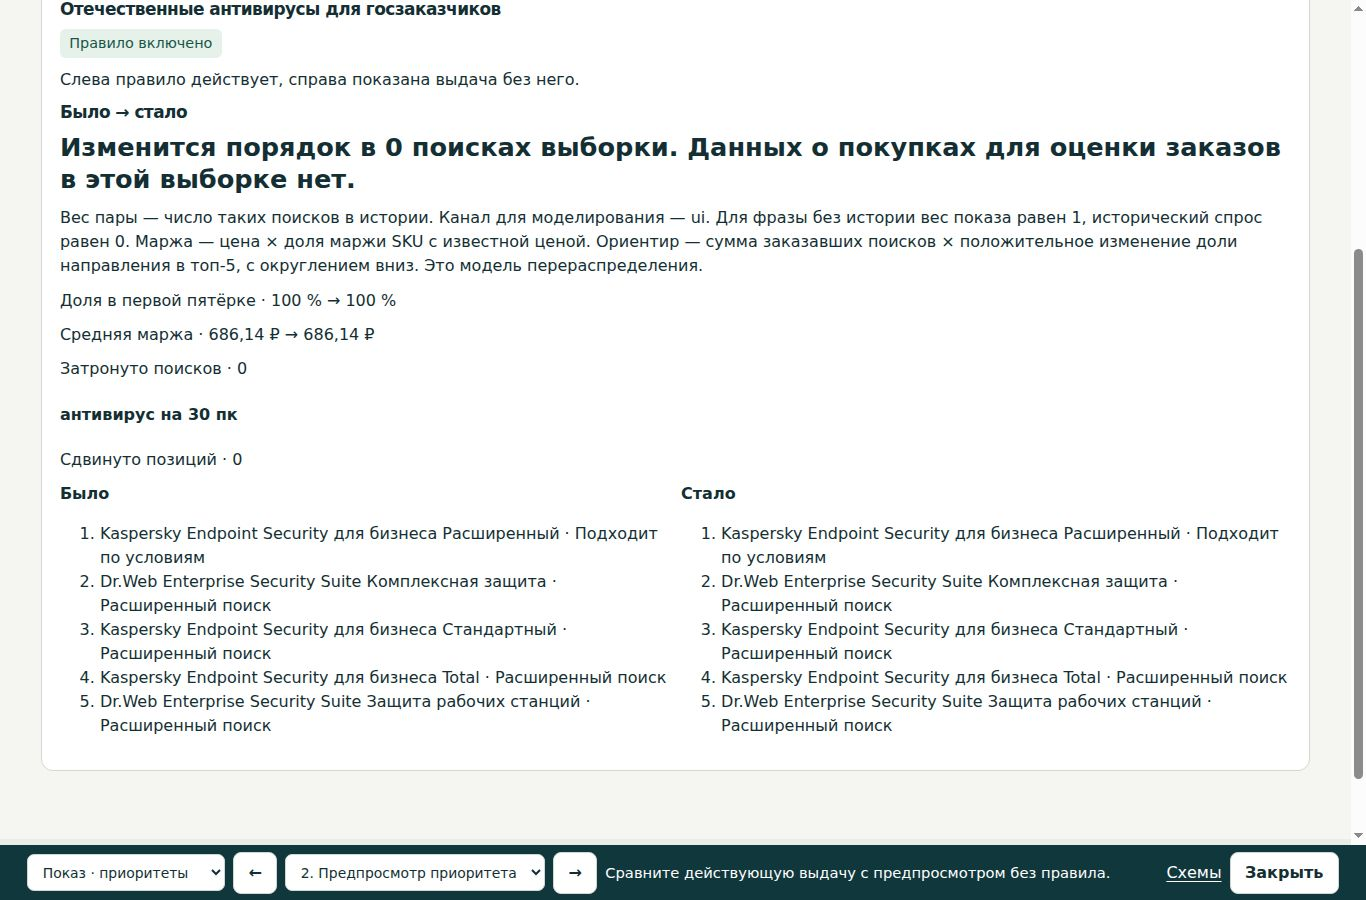
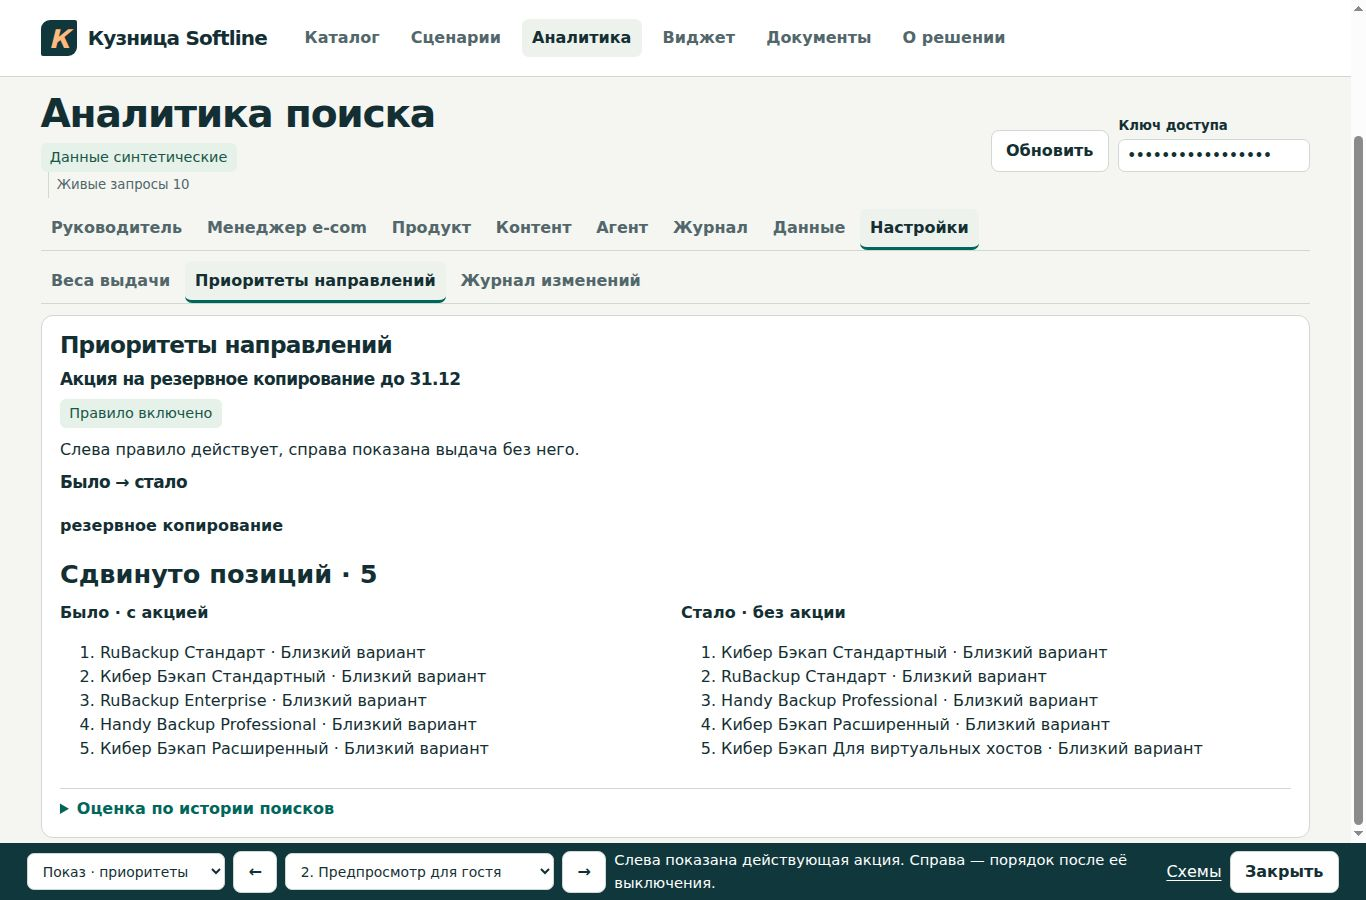
C7: сцена приоритетов на акции резервного копирования в обоих маршрутах показа

diff --git a/web/js/admin/priorities.js b/web/js/admin/priorities.js
@@ -27,21 +27,26 @@ function tags(p,key,values,choices){
   control.onchange=commit;control.onkeydown=e=>{if(e.key==='Enter'){e.preventDefault();commit();}};
   paint();return ()=>{commit();return [...selected];};
 }
-function preview(p,r){
+function preview(p,r,sceneRule){
   p.replaceChildren();add(p,'h3','Было → стало');const s=r.summary || {};
-  line(p,s.effect_text,'roleLead');line(p,s.note);
+  const summary=sceneRule ? details(p,'Оценка по истории поисков') : p;
+  line(summary,s.effect_text,'roleLead');line(summary,s.note);
   for(const [key,title,format] of [['share_top5','Доля в первой пятёрке',pct],['avg_margin','Средняя маржа',rub]]){
-    if(s[key+'_before']!=null && s[key+'_after']!=null)line(p,title+' · '+format(s[key+'_before'])+' → '+format(s[key+'_after']));
+    if(s[key+'_before']!=null && s[key+'_after']!=null)line(summary,title+' · '+format(s[key+'_before'])+' → '+format(s[key+'_after']));
   }
-  if(s.searches_affected!=null)line(p,'Затронуто поисков · '+s.searches_affected);
+  if(s.searches_affected!=null)line(summary,'Затронуто поисков · '+s.searches_affected);
   for(const q of rows(r.queries)){
-    add(p,'h4',q.q);if(q.moved!=null)line(p,'Сдвинуто позиций · '+q.moved);
+    add(p,'h4',q.q);if(q.moved!=null)line(p,'Сдвинуто позиций · '+q.moved,sceneRule?'roleLead':'');
     const cols=add(p,'div',null,'adminSplit');
     for(const [key,title] of [['before','Было'],['after','Стало']]){
-      const col=add(cols,'section');add(col,'b',title);const list=add(col,'ol');
+      const col=add(cols,'section');
+      const enabled=key==='before'?sceneRule?.enabled:!sceneRule?.enabled;
+      add(col,'b',sceneRule?title+' · '+(enabled?'с акцией':'без акции'):title);
+      const list=add(col,'ol');
       for(const c of rows(q[key]))add(list,'li',[c.title,c.tier!=null?caption('tier',c.tier,'Уровень '+c.tier):''].filter(Boolean).join(' · '));
     }
   }
+  if(sceneRule)p.append(summary);
 }
 function editor(p,rule,meta,catalog,reload){
   p.replaceChildren();add(p,'h3',rule.id?'Изменить правило':'Новое правило');
@@ -125,18 +130,18 @@ export function settings(p,params){
     loadBox(area,async box=>{
       const [catalog,meta]=await Promise.all([adminApi('priorities'),loadMeta()]);
       const phase=params.get('phase');
-      if(params.get('scene')==='gov' && ['enable','preview','disable'].includes(phase)){
-        const rule=rows(catalog.items).find(r=>r.id==='seed-gov-antivirus');
-        if(!rule){line(box,'Пример для госзаказчиков отсутствует в этом снимке.');return;}
+      if(params.get('scene')==='backup' && ['enable','preview','disable'].includes(phase)){
+        const rule=rows(catalog.items).find(r=>r.id==='seed-backup-promo');
+        if(!rule){line(box,'Пример акции RuBackup отсутствует в этом снимке.');return;}
         add(box,'h3',rule.title);
         line(box,rule.enabled?'Правило включено':'Правило выключено','badge');
         if(phase==='preview'){
           const out=add(box,'section');
           line(out,rule.enabled?'Слева правило действует, справа показана выдача без него.':'Слева текущая выдача, справа показана выдача с правилом.');
           const {id,title,order,target,scope,action,cross_tier}=rule;
-          const draft={id,title,order,target,scope,action,cross_tier,enabled:!rule.enabled};
-          const data=await adminApi('priorities/preview','POST',{rule:draft,queries:['антивирус на 30 пк'],limit:1});
-          preview(add(out,'div'),data);
+          const draft={id,title,order,target,scope:{...scope,profiles:['guest']},action,cross_tier,enabled:!rule.enabled};
+          const data=await adminApi('priorities/preview','POST',{rule:draft,queries:['резервное копирование'],limit:1});
+          preview(add(out,'div'),data,rule);
         }else{
           const enable=phase==='enable';
           if(Boolean(rule.enabled)!==enable)taskButton(box,enable?'Включить пример':'Выключить пример',async()=>{

diff --git a/tests/web/c5_render.browser.js b/tests/web/c5_render.browser.js
@@ -4,13 +4,15 @@ const p=document.querySelector('main'),status=document.querySelector('output');
 const tick=()=>new Promise(resolve=>setTimeout(resolve,30));
 const click=t=>[...p.querySelectorAll('button')].find(b=>b.textContent===t).click();
 const rule={id:'demo',title:'Правило для клиник',enabled:false,order:10,target:{tags:['domestic']},scope:{segments:['gov']},action:{criteria:{margin:.6},boost:40}};
+const promo={id:'seed-backup-promo',title:'Акция на резервное копирование до 31.12',enabled:true,
+  target:{families:['rubackup']},scope:{to:'2026-12-31'},action:{boost:20}};
 const requests=[];
 window.fetch=async(path,opts={})=>{
   requests.push([path,opts]);
   if(path==='/api/meta')return Response.json({labels:{tags:{domestic:'Из реестра'},criteria:{margin:'Маржа сегмента'}}});
   if(path.endsWith('/preview'))return Response.json({queries:[{q:'антивирус',before:[{title:'Карточка А'}],after:[{title:'Карточка Б'}]}],summary:{effect_text:'Изменение состава первой пятёрки'}});
   if(path.endsWith('/audit'))return Response.json({items:[{operation:'toggle',after:rule,ts:1,author:'Менеджер'}]});
-  return Response.json({items:[rule],criteria:['margin'],tags:['domestic']});
+  return Response.json({items:[rule,promo],criteria:['margin'],tags:['domestic']});
 };
 try{
   settings(p,new URLSearchParams());await tick();click(rule.title);
@@ -25,5 +27,11 @@ try{
   click('Включить');await tick();if(!requests.some(([url])=>url.endsWith('/demo/toggle')))throw Error('Включение правила');
   p.replaceChildren();settings(p,new URLSearchParams({section:'audit'}));await tick();
   if(!p.innerText.includes('Переключение') || !p.innerText.includes('Менеджер'))throw Error('Журнал изменений');
+  p.replaceChildren();settings(p,new URLSearchParams({scene:'backup',phase:'preview'}));await tick();
+  const body=JSON.parse(requests.findLast(([url])=>url.endsWith('/preview'))[1].body);
+  if(body.rule.id!==promo.id || body.rule.enabled!==false || body.limit!==1 ||
+     JSON.stringify(body.queries)!==JSON.stringify(['резервное копирование']) ||
+     JSON.stringify(body.rule.scope.profiles)!==JSON.stringify(['guest']) || body.rule.scope.to!==promo.scope.to)
+    throw Error('Предпросмотр выключения акции для гостя');
   status.textContent='passed';
 }catch(e){status.textContent=e.stack;}

diff --git a/tests/web/test_presentation.py b/tests/web/test_presentation.py
@@ -29,8 +29,14 @@ def test_show_steps_use_catalog_profiles(cfg, tmp_path):
     assert len({s["id"] for s in steps}) == len(steps)
     final = [s for s in steps if s["route"] == "long"]
     assert [s["mode"] for s in final if s["q"] == "каспер для хоума"] == ["fast", "smart"]
-    assert [s["id"] for s in final if s["id"].startswith("long-gov-")] == [
-        "long-gov-enable", "long-gov-preview", "long-gov-gov_clinic", "long-gov-guest", "long-gov-end"]
+    for route in ("long", "priority"):
+        prefix = route + "-backup-"
+        scene = [s for s in steps if s["id"].startswith(prefix)]
+        assert [s["id"][len(prefix):] for s in scene] == ["enable", "preview", "guest", "gov_clinic", "disable"]
+        assert [s["page"] for s in scene if s["action"] == "open"] == [
+            "/admin#settings?section=priorities&scene=backup&phase=" + phase for phase in ("enable", "preview", "disable")]
+        assert [(s["q"], s["profile"], s["mode"]) for s in scene if s["action"] == "search"] == [
+            ("резервное копирование", profile, "fast") for profile in ("guest", "gov_clinic")]
     assert any(s["action"] == "upload" for s in final) and final[-1]["page"] == "/docs"
     for step in steps:
         assert step["profile"] in {p["id"] for p in meta["profiles"]}

diff --git a/docs/UI.md b/docs/UI.md
@@ -155,6 +155,6 @@
 
 На двух шагах «Для дома» кнопка «Шаг уточнения» раскрывает решение `refine`. На шаге закупки витрина отправляет файл `web/demo/specification.csv` обычным маршрутом загрузки. Кнопка «Скачать КП» выгружает результат этого поиска. Сцена виджета открывает страницу партнёра с готовым запросом в быстром режиме.
 
-Перед показом подготовьте доступ оператора в шапке консоли. На шагах приоритетов ведущий сам нажимает «Включить пример» и «Выключить пример». Между ними показаны предпросмотр без действующего правила и один запрос под двумя профилями. Для повторного показа предложения агента доступен разбор сохранённой проверки.
+Перед показом подготовьте доступ оператора в шапке консоли. На шагах приоритетов ведущий сам нажимает «Включить пример» и «Выключить пример». Между ними показаны гостевой предпросмотр выключения акции RuBackup и быстрый поиск «резервное копирование» сначала под гостем, затем под профилем госклиники. Для повторного показа предложения агента доступен разбор сохранённой проверки.
 
 Справочник публичных подписей и профилей кэшируется в текущей вкладке на две минуты. При недоступном хранилище страницы загружают его из API.
